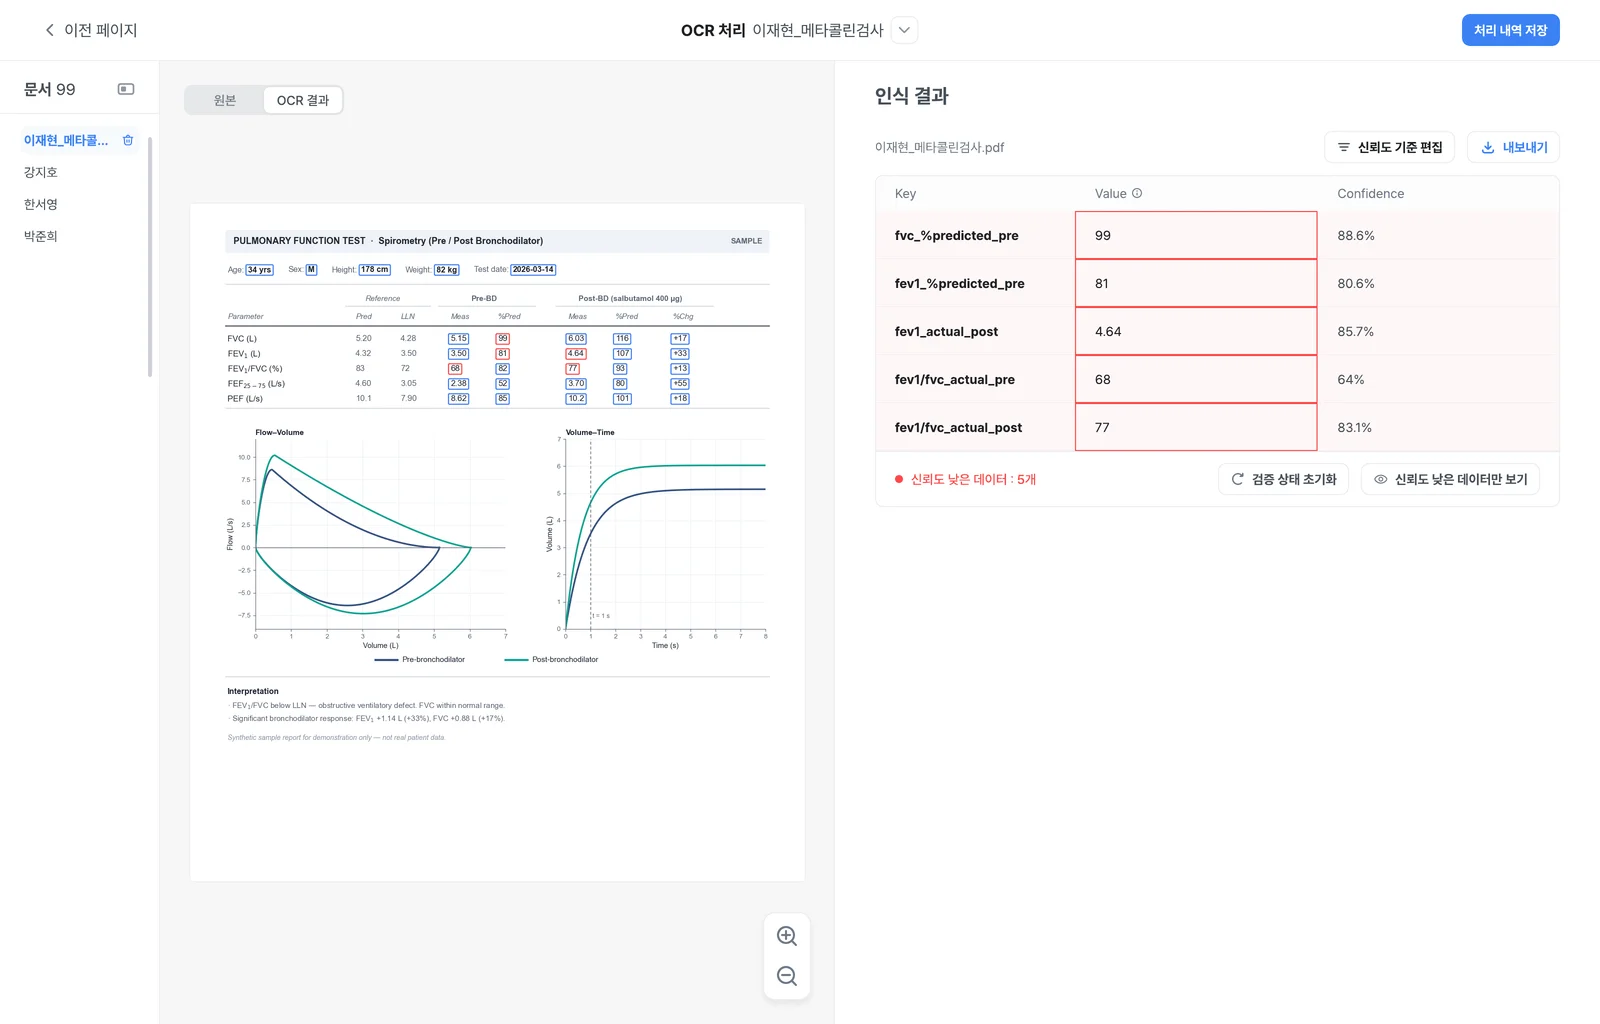
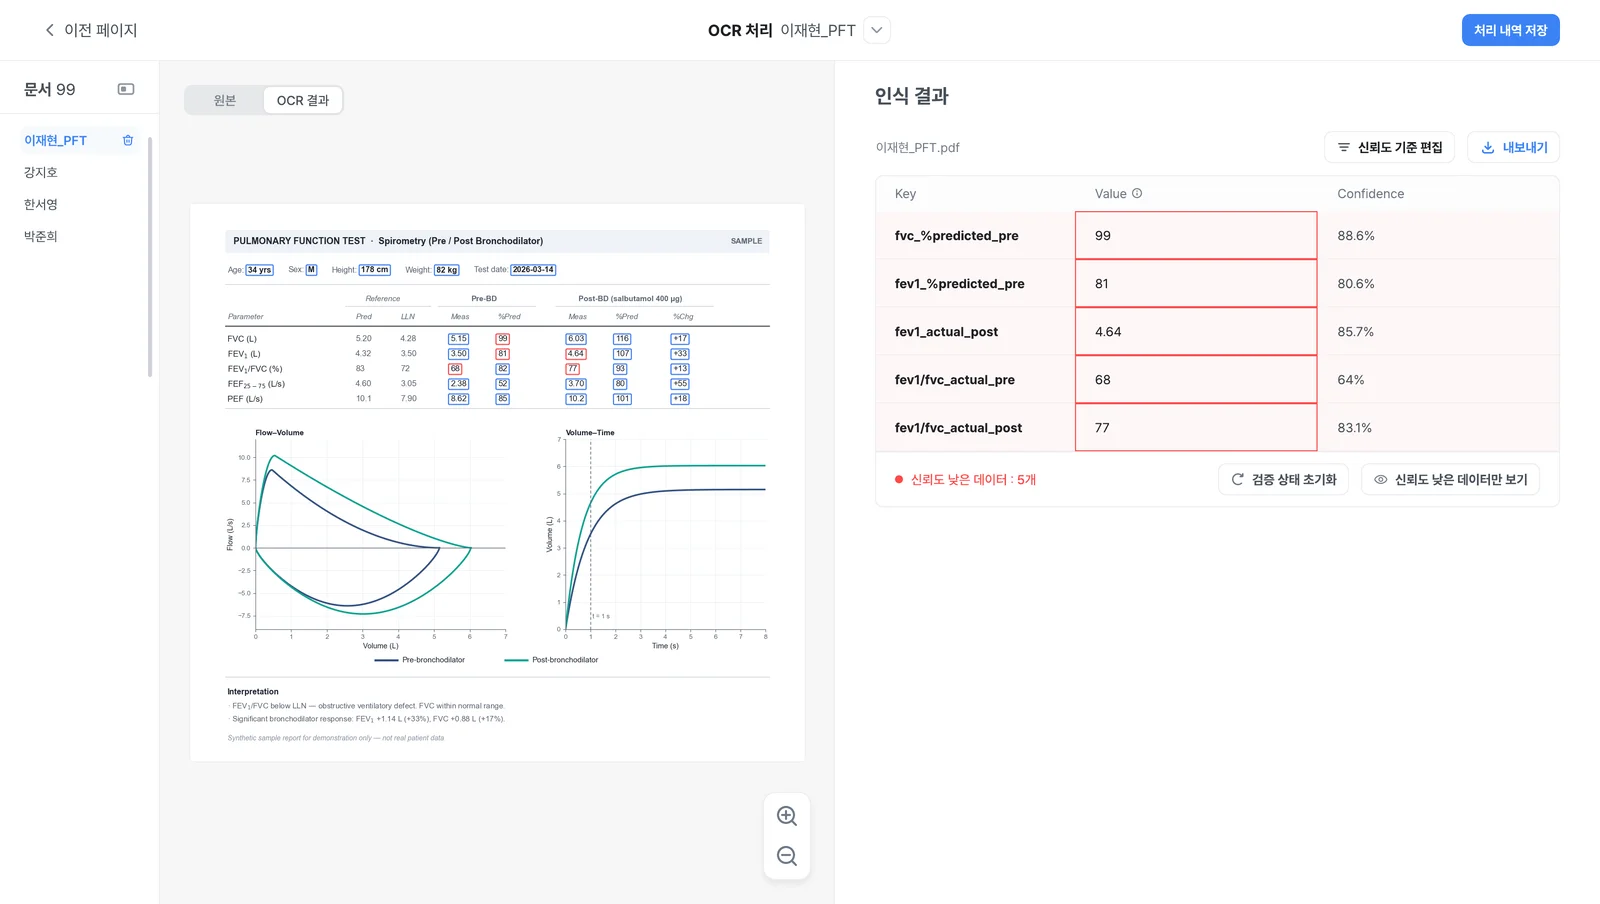
refactor: polish layout and fix PFT screenshot label
- Screenshot: rename file label to 이재현_PFT, crop empty band, tap to
  open full size (hint on mobile)
- Strictly alternate section backgrounds (Growth/Contact white, Team soft)
- Align award columns via subgrid; align metric values
- Roadmap items as a bulleted list; equal-height growth panels
- Compact two-column partner cards on mobile
- Remove unused Market/Roadmap components and their CSS

diff --git a/src/styles/global.css b/src/styles/global.css
@@ -873,6 +873,8 @@ textarea:focus-visible {
   margin: 24px 0 0;
 }
 .product-shot__frame {
+  display: block;
+  cursor: zoom-in;
   border: 1px solid var(--line);
   border-radius: var(--radius);
   background: #fff;
@@ -891,6 +893,13 @@ textarea:focus-visible {
 .product-shot__caption {
   font-size: 14px;
   color: var(--ink-soft);
+}
+.product-shot__zoom {
+  display: none;
+  margin-top: 6px;
+  font-size: 12.5px;
+  font-weight: 650;
+  color: var(--brand);
 }
 .product-shot__note {
   margin-top: 6px;
@@ -1004,8 +1013,12 @@ textarea:focus-visible {
    ============================================================ */
 .awards {
   margin-top: 34px;
+  display: grid;
+  grid-template-columns: max-content minmax(0, 1fr) minmax(0, 0.95fr);
+  column-gap: 26px;
 }
 .awards__label {
+  grid-column: 1 / -1;
   display: block;
   margin-bottom: 12px;
   font-size: 11.5px;
@@ -1015,8 +1028,9 @@ textarea:focus-visible {
   color: var(--ink-faint);
 }
 .award {
+  grid-column: 1 / -1;
   display: grid;
-  grid-template-columns: auto minmax(0, 1fr) minmax(0, 0.95fr);
+  grid-template-columns: subgrid;
   align-items: center;
   gap: 26px;
   padding: 22px 26px;
@@ -1026,6 +1040,7 @@ textarea:focus-visible {
   background: linear-gradient(100deg, var(--accent-tint), #fff 58%);
 }
 .award__badge {
+  justify-self: start;
   display: inline-flex;
   align-items: center;
   gap: 7px;
@@ -1083,7 +1098,6 @@ textarea:focus-visible {
   gap: 16px;
 }
 .metric {
-  min-height: 176px;
   display: flex;
   flex-direction: column;
   background: #fff;
@@ -1098,7 +1112,7 @@ textarea:focus-visible {
   color: var(--ink-faint);
 }
 .metric .v {
-  margin-top: auto;
+  margin-top: 26px;
   font-size: clamp(20px, 2.2vw, 27px);
   font-weight: 800;
   color: var(--brand);
@@ -1186,10 +1200,6 @@ textarea:focus-visible {
   border: 1px solid var(--line);
   border-radius: var(--radius);
   padding: 28px;
-}
-.papers__cred {
-  font-size: 15px;
-  color: var(--ink-soft);
 }
 .papers__title {
   margin-top: 0;
@@ -1350,6 +1360,10 @@ textarea:focus-visible {
   border-radius: var(--radius);
   background: #fff;
 }
+.market-panel {
+  display: flex;
+  flex-direction: column;
+}
 .growth-panel__head {
   display: flex;
   flex-direction: column;
@@ -1370,9 +1384,11 @@ textarea:focus-visible {
   white-space: pre-line;
 }
 .market-steps {
+  flex: 1;
   margin-top: 20px;
   display: grid;
   grid-template-columns: repeat(2, 1fr);
+  grid-auto-rows: 1fr;
   gap: 12px;
 }
 .market-step {
@@ -1468,126 +1484,29 @@ textarea:focus-visible {
   color: var(--ink-soft);
 }
 .timeline__content ul {
-  margin-top: 7px;
-  display: flex;
-  flex-wrap: wrap;
-  gap: 5px 8px;
+  margin-top: 8px;
+  display: grid;
+  gap: 5px;
 }
 .timeline__content ul li {
-  font-size: 12.5px;
-  color: var(--ink-soft);
-}
-.timeline__content ul li:not(:last-child)::after {
-  content: '·';
-  margin-left: 8px;
-  color: var(--line);
-}
-
-/* Legacy market component styles */
-.market-grid {
-  margin-top: 38px;
-  display: grid;
-  grid-template-columns: repeat(4, 1fr);
-  gap: 18px;
-}
-.market-card {
-  background: #fff;
-  border: 1px solid var(--line);
-  border-radius: var(--radius);
-  padding: 26px;
   position: relative;
-}
-.market-card:last-child {
-  background: linear-gradient(165deg, var(--brand), var(--brand-dark));
-  border-color: transparent;
-  color: #fff;
-}
-.market-card__tier {
-  font-size: 12px;
-  font-weight: 800;
-  letter-spacing: 0.08em;
-  color: var(--ink-faint);
-}
-.market-card:last-child .market-card__tier {
-  color: rgba(255, 255, 255, 0.7);
-}
-.market-card__value {
-  margin-top: 8px;
-  font-size: 28px;
-  font-weight: 800;
-  letter-spacing: -0.03em;
-}
-.market-card__label {
-  margin-top: 2px;
-  font-size: 13.5px;
-  font-weight: 700;
-  color: var(--brand);
-}
-.market-card:last-child .market-card__label {
-  color: #b9c8ff;
-}
-.market-card__desc {
-  margin-top: 12px;
-  font-size: 13.5px;
+  padding-left: 12px;
+  font-size: 13px;
+  line-height: 1.5;
   color: var(--ink-soft);
 }
-.market-card:last-child .market-card__desc {
-  color: rgba(255, 255, 255, 0.85);
+.timeline__content ul li::before {
+  content: '';
+  position: absolute;
+  left: 0;
+  top: 0.68em;
+  width: 4px;
+  height: 4px;
+  border-radius: 50%;
+  background: var(--ink-faint);
+  opacity: 0.5;
 }
 
-/* ============================================================
-   ROADMAP
-   ============================================================ */
-.roadmap-grid {
-  margin-top: 38px;
-  display: grid;
-  grid-template-columns: repeat(3, 1fr);
-  gap: 20px;
-}
-.phase {
-  background: #fff;
-  border: 1px solid var(--line);
-  border-radius: var(--radius);
-  padding: 28px;
-}
-.phase__head {
-  display: flex;
-  align-items: baseline;
-  gap: 10px;
-  padding-bottom: 16px;
-  border-bottom: 1px solid var(--line-soft);
-}
-.phase__period {
-  font-size: 22px;
-  font-weight: 800;
-  color: var(--brand);
-  letter-spacing: -0.02em;
-}
-.phase__name {
-  font-size: 14px;
-  font-weight: 700;
-  color: var(--ink-soft);
-}
-.phase ul {
-  margin-top: 16px;
-  display: grid;
-  gap: 10px;
-}
-.phase li {
-  display: flex;
-  gap: 9px;
-  font-size: 14.5px;
-  color: var(--ink-soft);
-}
-.phase li::before {
-  content: '';
-  flex-shrink: 0;
-  width: 6px;
-  height: 6px;
-  margin-top: 8px;
-  border-radius: 50%;
-  background: var(--brand);
-}
 .roadmap-global {
   margin-top: 20px;
   display: flex;
@@ -1745,6 +1664,12 @@ textarea:focus-visible {
   font-size: 12.5px;
   line-height: 1.5;
   color: var(--ink-soft);
+}
+.section--soft .partners {
+  background: #fff;
+}
+.section--soft .partner-card:not(.partner-card--featured) {
+  background: var(--bg-soft);
 }
 .partner-card--featured {
   border-color: rgba(47, 91, 245, 0.24);
@@ -1989,6 +1914,9 @@ textarea:focus-visible {
 }
 
 @media (max-width: 820px) {
+  .awards {
+    display: block;
+  }
   .award {
     grid-template-columns: 1fr;
     align-items: start;
@@ -2005,7 +1933,6 @@ textarea:focus-visible {
   }
   .grid-3,
   .moat-grid,
-  .roadmap-grid,
   .solution-grid,
   .research-grid,
   .team-grid,
@@ -2082,6 +2009,7 @@ textarea:focus-visible {
   .partners {
     flex-direction: column;
     gap: 12px;
+    align-items: flex-start;
   }
 }
 
@@ -2186,9 +2114,6 @@ textarea:focus-visible {
   .papers {
     padding: 24px;
   }
-  .market-grid {
-    grid-template-columns: 1fr;
-  }
   .field-row {
     grid-template-columns: 1fr;
   }
@@ -2210,8 +2135,18 @@ textarea:focus-visible {
     flex-direction: column;
     gap: 8px;
   }
+  .product-shot__zoom {
+    display: block;
+  }
   .partners__grid {
-    grid-template-columns: 1fr;
+    grid-template-columns: repeat(2, minmax(0, 1fr));
+  }
+  .partner-card {
+    min-height: 0;
+    padding: 14px;
+  }
+  .partner-card:last-child:nth-child(odd) {
+    grid-column: 1 / -1;
   }
   .compare {
     margin-right: -18px;

diff --git a/src/data/content.ts b/src/data/content.ts
@@ -106,10 +106,11 @@ export const content = {
         src: '/product/medipipe-ocr.webp',
         src2x: '/product/medipipe-ocr@2x.webp',
         width: 1600,
-        height: 1024,
+        height: 904,
         alt: 'MediPipe 검증 화면. 왼쪽에는 폐기능검사 결과지 원본에 인식한 값이 박스로 표시되고, 오른쪽에는 항목별 인식값과 신뢰도가 표로 정리되어 신뢰도가 낮은 값 5개가 빨간색으로 강조되어 있습니다.',
         caption: 'MediPipe 검증 화면 — 결과지에서 읽은 값을 원본 위치와 함께 보여주고, 신뢰도가 낮은 값을 의료인이 먼저 확인하도록 표시합니다.',
         note: '화면 속 폐기능검사 결과지와 환자 정보는 시연용 가상 데이터입니다.',
+        zoomHint: '이미지를 누르면 크게 볼 수 있습니다.',
       },
       products: [
         {
@@ -481,10 +482,11 @@ export const content = {
         src: '/product/medipipe-ocr.webp',
         src2x: '/product/medipipe-ocr@2x.webp',
         width: 1600,
-        height: 1024,
+        height: 904,
         alt: 'The MediPipe review screen. On the left, the original pulmonary function test report with each recognized value boxed in place; on the right, a table of extracted values and confidence scores, with five low-confidence values highlighted in red.',
         caption: 'MediPipe review screen — every extracted value is shown in place on the source report, and low-confidence values are flagged for a clinician to check first.',
         note: 'The spirometry report and patient details shown are synthetic demo data.',
+        zoomHint: 'Tap the image to view it full size.',
       },
       products: [
         {

diff --git a/CLAUDE.md b/CLAUDE.md
@@ -29,7 +29,7 @@ The rendering flow:
 - `src/pages/index.astro` (`/`) and `src/pages/en/index.astro` (`/en/`) each pick `content.ko` / `content.en` and pass it to `src/components/Site.astro`.
 - `Site.astro` composes `Base.astro` (layout) + `Nav` + the nine section components + `Footer`, passing the whole content object down as the `t` prop.
 - Every section component takes `t: Content` (via `SectionProps` from `src/types.ts`) and reads its own slice (e.g. `t.hero`).
-- The eight `.section` components render through **`src/components/Section.astro`**, which owns the shared scaffold (`section` / `container` / `reveal` eyebrow + title + optional lead) and a `<slot />` for the body. `soft` toggles the `section--soft` background alternation. Its markup is 1:1 with class names in `global.css` — changing the DOM there breaks styling silently.
+- The seven `.section` components (Problem → Contact; Hero and Trust are standalone) render through **`src/components/Section.astro`**, which owns the shared scaffold (`section` / `container` / `reveal` eyebrow + title + optional lead) and a `<slot />` for the body. `soft` toggles the `section--soft` background — keep it strictly alternating down the page (two soft sections in a row read as one oversized gap). Its markup is 1:1 with class names in `global.css` — changing the DOM there breaks styling silently.
 
 **Adding a section** = add a key to both `ko` and `en` in `content.ts`, create a component in `src/components/` that wraps its body in `<Section>`, and wire it into `Site.astro`.
 
